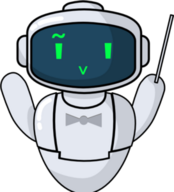
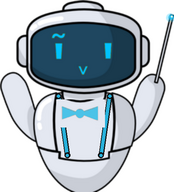
feat(watch): mascot propio de kaWATCHan — acento cian y tirantes (KJL-TSK-0105) (#166)

diff --git a/public-watch/index.html b/public-watch/index.html
@@ -116,7 +116,8 @@
     }
     .hero-logo {
       width: clamp(120px, 16vw, 180px); height: auto;
-      filter: drop-shadow(0 0 30px rgba(232,176,75,0.12));
+      /* Halo en el acento propio de watch, no en el oro de la batuta. */
+      filter: drop-shadow(0 0 30px rgba(56,189,248,0.14));
     }
 
     /* --- WATCH ORBIT: the repos it watches, and the pulse a merge sends across them --- */
@@ -416,7 +417,7 @@
         <source type="image/png"
           srcset="/img/logo-120.png 120w, /img/logo-160.png 160w, /img/logo-200.png 200w, /img/logo-240.png 240w, /img/logo-320.png 320w, /img/logo-480.png 480w"
           sizes="(max-width: 480px) 120px, (max-width: 768px) 150px, 180px">
-        <img src="/img/logo-240.png" alt="Karajan — robot conductor mascot with baton and bow tie" class="hero-logo" width="163" height="180" fetchpriority="high">
+        <img src="/img/logo-240.png" alt="kaWATCHan — robot conductor mascot with cyan eyes, bow tie and suspenders, holding a baton" class="hero-logo" width="163" height="180" fetchpriority="high">
       </picture>
       <div class="orbit-ring" aria-hidden="true">
         <!-- Repo -->
